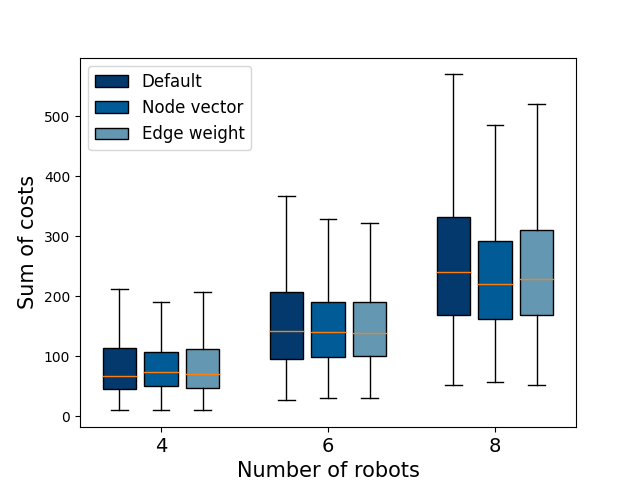
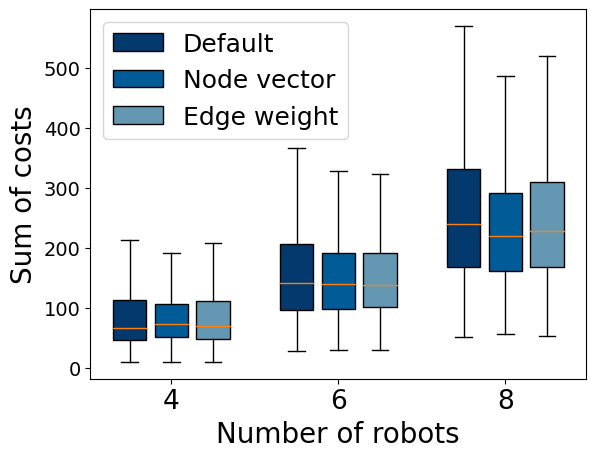
.

Changed region(s): [[0.0, 0.0306, 0.9664, 1.0], [0.5738, 0.0917, 0.604, 0.1528]]

diff --git a/Best_chromosomes/plots_boksplots.py b/Best_chromosomes/plots_boksplots.py
@@ -44,9 +44,10 @@ marker_size = 6
 marker_edge_width = 2
 
 title_size = 15
-legend_size = 12
-label_size = 15
-x_row_size = 14
+legend_size = 18
+label_size = 20
+x_row_size = 19
+y_ticks_size = 14
 
 y_bottom = 0.0
 y_top = 1.01
@@ -126,13 +127,14 @@ for i in range(4):
     box3 = plt.boxplot(soc_best_edge, 0, '', positions=x+sep_val, widths=width, patch_artist=True, boxprops=dict(facecolor=box_color_edge))
 
     plt.xticks(x, [str(int(densities[0])), str(int(densities[1])), str(int(densities[2]))], fontsize=x_row_size)
+    plt.yticks(fontsize=y_ticks_size)
     legends = [box1["boxes"][0], box2["boxes"][0], box3["boxes"][0]]
     labels = encoding_names
     plt.legend(legends, labels, loc='upper left', fontsize=legend_size)
     #plt.title(data[i_1][map_name], fontsize=title_size)
     plt.xlabel('Number of robots', fontsize=label_size)
     plt.ylabel('Sum of costs', fontsize=label_size)
-    plt.savefig("Best_chromosomes/Plots/Plots_boxplots/" + data[i_1][map_name] + "_" + "soc" + ".png")
+    plt.savefig("Best_chromosomes/Plots/Plots_boxplots/" + data[i_1][map_name] + "_" + "soc" + ".png", bbox_inches='tight')
     plt.show()
 
     # # Wait Plot
@@ -141,12 +143,13 @@ for i in range(4):
     box3 = plt.boxplot(waits_best_edge, 0, '', positions=x+sep_val, widths=width, patch_artist=True, boxprops=dict(facecolor=box_color_edge))
 
     plt.xticks(x, [str(int(densities[0])), str(int(densities[1])), str(int(densities[2]))], fontsize=x_row_size)
+    plt.yticks(fontsize=y_ticks_size)
     legends = [box1["boxes"][0], box2["boxes"][0], box3["boxes"][0]]
     labels = encoding_names
     plt.legend(legends, labels, loc='upper left', fontsize=legend_size)
     plt.xlabel('Number of robots', fontsize=label_size)
-    plt.ylabel('Average number of waits', fontsize=label_size)
-    plt.savefig("Best_chromosomes/Plots/Plots_boxplots/" + data[i_1][map_name] + "_" + "waits" + ".png")
+    plt.ylabel('Number of waits', fontsize=label_size)
+    plt.savefig("Best_chromosomes/Plots/Plots_boxplots/" + data[i_1][map_name] + "_" + "waits" + ".png", bbox_inches='tight')
     plt.show()
     
 
@@ -156,10 +159,11 @@ for i in range(4):
     box3 = plt.boxplot(conflicts_best_edge, 0, '', positions=x+sep_val, widths=width, patch_artist=True, boxprops=dict(facecolor=box_color_edge))
 
     plt.xticks(x, [str(int(densities[0])), str(int(densities[1])), str(int(densities[2]))], fontsize=x_row_size)
+    plt.yticks(fontsize=y_ticks_size)
     legends = [box1["boxes"][0], box2["boxes"][0], box3["boxes"][0]]
     labels = encoding_names
     plt.legend(legends, labels, loc='upper left', fontsize=legend_size)
     plt.xlabel('Number of robots', fontsize=label_size)
-    plt.ylabel('Average number of conflicts', fontsize=label_size)
-    plt.savefig("Best_chromosomes/Plots/Plots_boxplots/" + data[i_1][map_name] + "_" + "conflicts" + ".png")
+    plt.ylabel('Number of conflicts', fontsize=label_size)
+    plt.savefig("Best_chromosomes/Plots/Plots_boxplots/" + data[i_1][map_name] + "_" + "conflicts" + ".png", bbox_inches='tight')
     plt.show()
